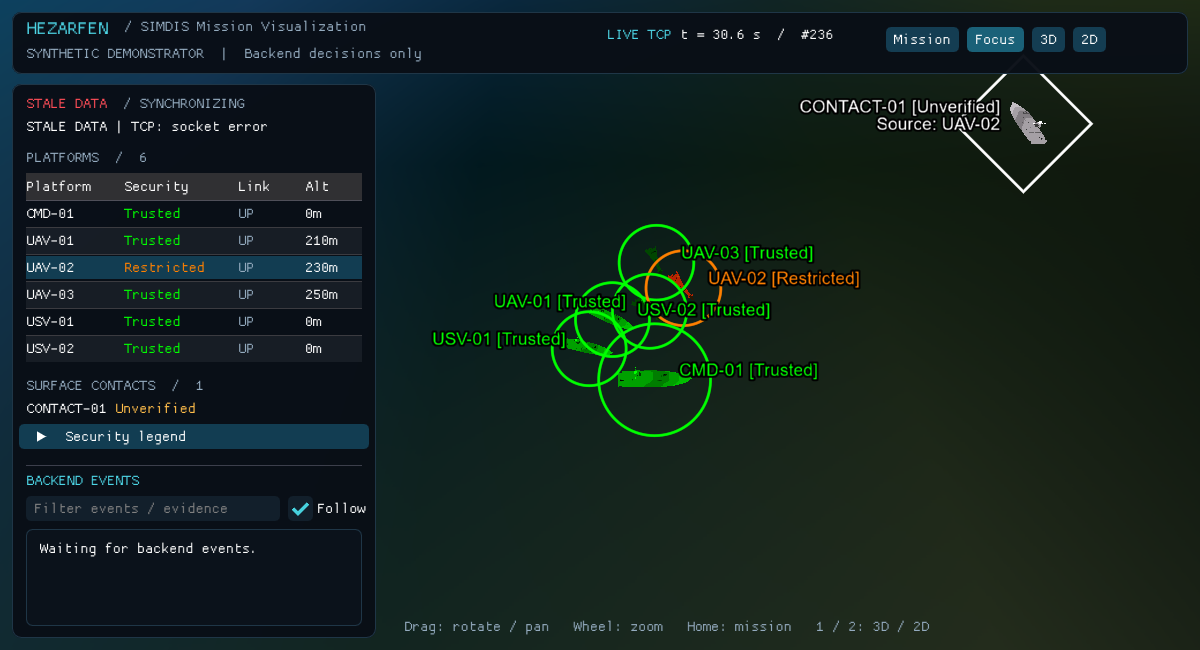
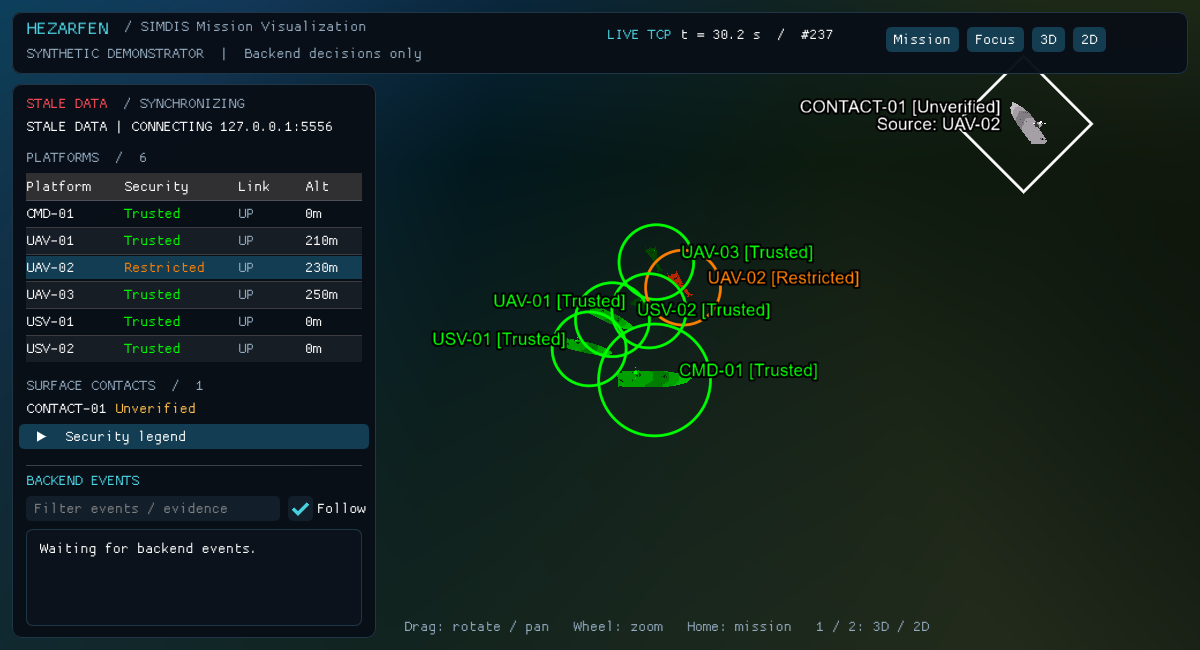
Prewarm dashboard fonts for stable accelerated replay rendering

diff --git a/viewer/ImGuiLayer.cpp b/viewer/ImGuiLayer.cpp
@@ -83,7 +83,17 @@ void ImGuiLayer::render(osg::RenderInfo& info) {
     const GLenum stores[]={GL_UNPACK_ALIGNMENT,GL_UNPACK_ROW_LENGTH,GL_UNPACK_SKIP_ROWS,GL_UNPACK_SKIP_PIXELS};
     GLint oldStores[4];
     for(int i=0;i<4;++i) { glGetIntegerv(stores[i],&oldStores[i]); glPixelStorei(stores[i],i==0 ? 1 : 0); }
-    ImGui_ImplOpenGL3_NewFrame(); ImGui::NewFrame(); draw_(); ImGui::Render();
+    ImGui_ImplOpenGL3_NewFrame(); ImGui::NewFrame();
+    if(!fontsWarmed_) {
+        // Bake the dashboard's ASCII glyphs at both sizes before the first upload.
+        // High-speed replay must not keep reallocating the atlas between OSG draws.
+        for(float size : {15.f,18.75f}) {
+            auto* baked=ImGui::GetFont()->GetFontBaked(size);
+            for(unsigned c=32;c<127;++c) baked->FindGlyph(ImWchar(c));
+        }
+        fontsWarmed_=true;
+    }
+    draw_(); ImGui::Render();
     ImGui_ImplOpenGL3_RenderDrawData(ImGui::GetDrawData());
     glBindTexture(GL_TEXTURE_2D,GLuint(oldTexture));
     for(int i=0;i<4;++i) glPixelStorei(stores[i],oldStores[i]);

diff --git a/viewer/ImGuiLayer.h b/viewer/ImGuiLayer.h
@@ -18,6 +18,6 @@ private:
     ImGuiContext* context_{};
     std::function<void()> draw_;
     double previousTime_{};
-    bool initialized_{false};
+    bool initialized_{false}, fontsWarmed_{false};
 };
 }

diff --git a/viewer/VALIDATION.md b/viewer/VALIDATION.md
@@ -71,7 +71,7 @@ The old text HUD has been replaced by a native Dear ImGui 1.92.4 mission monitor
 
 The integration check now requires `ui=Dear ImGui` and `ui_frames>0` in each application report. Live, disconnect/reconnect and all-913-message replay checks passed with the ImGui renderer. PNGs were regenerated from the actual framebuffer after the ImGui draw callback; the map and SDK entities remain native SIMDIS. The ImGui OpenGL3 backend is compiled directly from the installed SDK dependency sources; its source directory is configurable in CMake.
 
-The ImGui display dimensions come from the actual graphics window traits. This avoids using the smaller temporary GL viewport left by other rendering passes, which initially misplaced/cropped panels. Header layout and the full sidebar were visually verified at 1200 by 650 pixels. Texture binding and pixel-unpack state are preserved around ImGui dynamic font updates so SDK glyph uploads cannot corrupt the UI font atlas. The original native TCP/state/coordinate test results remain applicable; UI integration adds no security rules.
+The ImGui display dimensions come from the actual graphics window traits. This avoids using the smaller temporary GL viewport left by other rendering passes, which initially misplaced/cropped panels. Header layout and the full sidebar were visually verified at 1200 by 650 pixels. Texture binding and pixel-unpack state are preserved around ImGui dynamic font updates. Dashboard ASCII glyphs are baked at both UI sizes before the first texture upload to keep rapid replay from reallocating the UI font atlas during rendering. The original native TCP/state/coordinate test results remain applicable; UI integration adds no security rules.
 
 Desktop automation access to the application was not approved, so mouse/keyboard gestures were not exercised automatically. Rendering, native scene state, streaming, stale status, reconnect and replay were verified through application execution and framebuffer/readback evidence.
 
